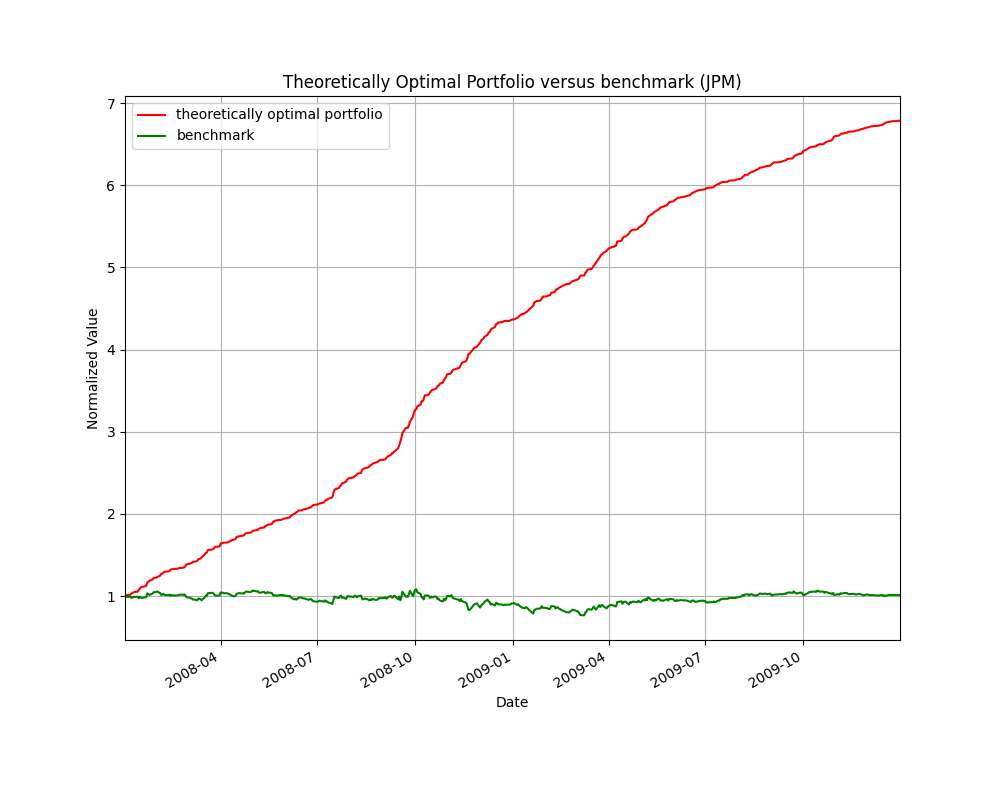
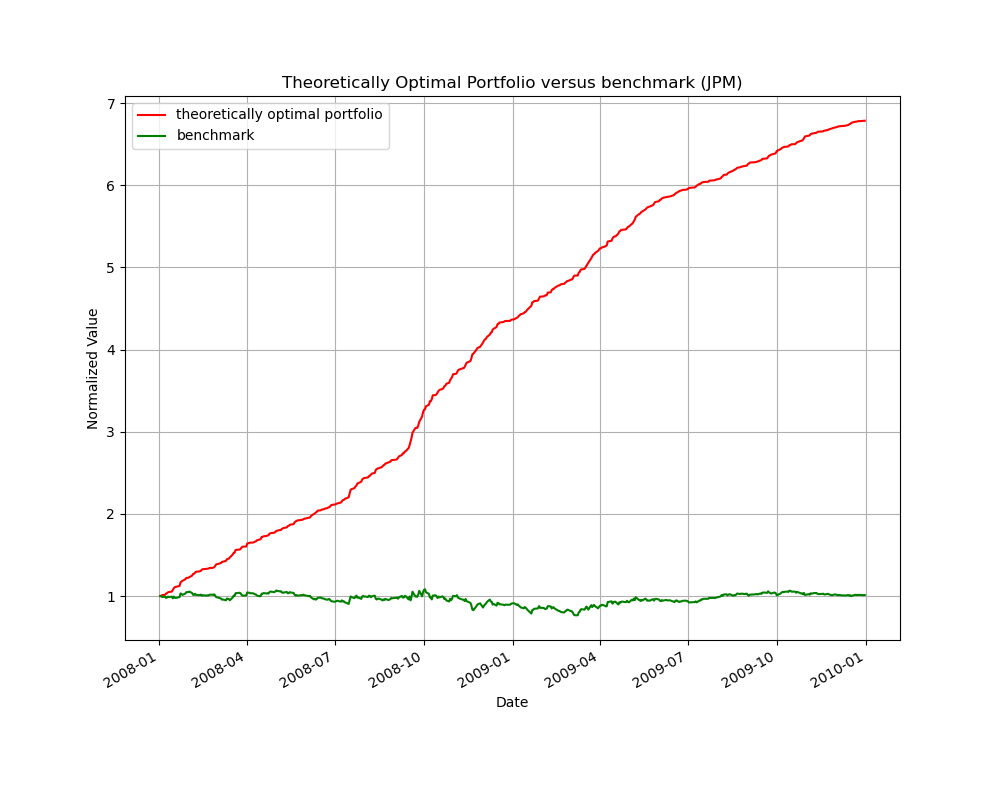
finished proj 6 code

diff --git a/indicator_evaluation/TheoreticallyOptimalStrategy.py b/indicator_evaluation/TheoreticallyOptimalStrategy.py
@@ -4,6 +4,7 @@ import numpy as np
 import pandas as pd
 from util import get_data, plot_data
 import marketsimcode
+import matplotlib.pyplot as plt
 
 def author():
 	return 'tkim338'
@@ -25,13 +26,8 @@ def benchmark(sd, ed, sv=100000):
 	buy_date = stock_data[benchmark_symbol].first_valid_index()
 	sell_date = stock_data[benchmark_symbol].last_valid_index()
 
-	# output = {'Date': [], 'Symbol': [], 'Order': [], 'Shares':[]}
 	output = {'Date': [], 'Trade':[]}
-	# output['Date'] = [buy_date.strftime('%Y-%m-%d'), sell_date.strftime('%Y-%m-%d')]
 	output['Date'] = [buy_date, sell_date]
-	# output['Symbol'] = [benchmark_symbol, benchmark_symbol]
-	# output['Order'] = ['BUY', 'SELL']
-	# output['Shares'] = [1000, 0]
 	output['Trade'] = [1000, -1000]
 
 	df_benchmark = pd.DataFrame(data=output['Trade'], index=output['Date'], columns=[benchmark_symbol])
@@ -41,12 +37,9 @@ def benchmark(sd, ed, sv=100000):
 def compute(symbol, sd, ed, sv): # symbol, start date, end date, start value of portfolio
 	all_dates = date_list(sd, ed)
 	stock_data = get_data([symbol], all_dates, addSPY=False)
-	# stock_data = stock_data.fillna(method='ffill')
-	# stock_data = stock_data.fillna(method='bfill')
 	prev_price = stock_data[symbol][all_dates[0]]
 	prev_date = all_dates[0]
 	current_position = 0
-	# output = {'Date': [], 'Symbol': [], 'Order': [], 'Shares':[]}
 	output = {'Date': [], 'Trade': []}
 
 	for date in all_dates:
@@ -68,9 +61,6 @@ def compute(symbol, sd, ed, sv): # symbol, start date, end date, start value of 
 				else:
 					prev_trade = 0
 					current_position = -1000
-			# elif delta == 0:
-			# 	prev_trade = 0 - current_position
-			# 	current_position = 0
 
 			if prev_trade != 0:
 				output['Date'].append(prev_date)
@@ -109,18 +99,49 @@ def testPolicy(symbol, sd, ed, sv): # symbol, start date, end date, start value 
 	df_trades = compute(symbol, sd, ed, sv)
 	return df_trades
 
+def generateReport(symbol, sd, ed):
+	df_trades = testPolicy(symbol, sd, ed, 100000)
+	tos_values = marketsimcode.compute_portvals(orders_df=df_trades, start_val=100000, commission=0, impact=0)
+	cum, std, mean = compute_statistics(tos_values)
+
+	bm_df = benchmark(sd, ed, 100000)
+	bm_values = marketsimcode.compute_portvals(orders_df=bm_df, start_val=100000, commission=0, impact=0)
+	bm_cum, bm_std, bm_mean = compute_statistics(bm_values)
+
+	df_temp = pd.concat([tos_values / tos_values.iloc[0, :], bm_values / bm_values.iloc[0, :]], axis=1, sort=False)
+	df_temp.columns = ['theoretically optimal portfolio', 'benchmark']
+
+	# -Benchmark (see definition above) normalized to 1.0 at the start: Green line
+	# -Value of the theoretically optimal portfolio (normalized to 1.0 at the start): Red line
+	val_plot = df_temp.plot(style=['-r', '-g'], title='Theoretically Optimal Portfolio versus benchmark (' + symbol + ')', figsize=(10, 8))
+	val_plot.set_xlabel('Date')
+	val_plot.set_ylabel('Normalized Value')
+	val_plot.grid(b=True, which='both', axis='both')
+	plt.savefig('TOS.png')
+
+	print('Symbol: ', symbol)
+	print('Start date: ', sd)
+	print('End date: ', ed)
+	# -Cumulative return of the benchmark and portfolio
+	print('Cumulative return of the benchmark: ', bm_cum, ' and portfolio: ', cum)
+	# -Stdev of daily returns of benchmark and portfolio
+	print('Stdev of daily returns of benchmark: ', bm_std, ' and portfolio: ', std)
+	# -Mean of daily returns of benchmark and portfolio
+	print('Mean of daily returns of benchmark: ', bm_mean, ' and portfolio: ', mean)
+
 if __name__ == "__main__":
-	df_test = testPolicy(symbol="JPM", sd=dt.datetime(2009, 3, 1), ed=dt.datetime(2009, 3, 15), sv=100000)
-	test_values = marketsimcode.compute_portvals(orders_df=df_test, start_val=100000, commission=0, impact=0)
-	stock_data = get_data(['JPM'], date_list(dt.datetime(2009, 3, 1), dt.datetime(2009, 3, 15)), addSPY=False)
-
-	df_test.columns = ['trades']
-	stock_data.columns = ['price']
-	df_temp = pd.concat([df_test, stock_data], axis=1, sort=False)
-
-	cum, std, mean = compute_statistics(test_values)
-	print(cum)
-	print(std)
-	print(mean)
-
-	print('done')
+	# df_test = testPolicy(symbol="JPM", sd=dt.datetime(2008, 1, 1), ed=dt.datetime(2009, 12, 31), sv=100000)
+	# test_values = marketsimcode.compute_portvals(orders_df=df_test, start_val=100000, commission=0, impact=0)
+	# # stock_data = get_data(['JPM'], date_list(dt.datetime(2008, 1, 1), dt.datetime(2009, 12, 31)), addSPY=False)
+	#
+	# # df_test.columns = ['trades']
+	# # stock_data.columns = ['price']
+	# # df_temp = pd.concat([df_test, stock_data], axis=1, sort=False)
+	#
+	# cum, std, mean = compute_statistics(test_values)
+	# print(cum)
+	# print(std)
+	# print(mean)
+	#
+	# print('done')
+	generateReport(symbol="JPM", sd=dt.datetime(2008, 1, 1), ed=dt.datetime(2009, 12, 31))

diff --git a/indicator_evaluation/indicators.py b/indicator_evaluation/indicators.py
@@ -66,6 +66,12 @@ def obv(df_prices, df_volume):
 		prev_price = curr_price
 		prev_obv = obv_list['obv'][-1]
 	df_obv = pd.DataFrame(data=obv_list['obv'], index=obv_list['date'], columns=['OBV'])
+	# first_val = 1
+	# for val in df_obv.iterrows():
+	# 	if val[1][0] != 0:
+	# 		first_val = val[1][0]
+	# 		break
+	# df_obv = df_obv / first_val
 	return df_obv
 
 def indicator_test(symbol, sd, ed):
@@ -90,11 +96,18 @@ def indicator_test(symbol, sd, ed):
 	sma_window = 20
 	ma = sma(stock_price, window_size=sma_window)
 	ma.columns += ' ('+str(sma_window)+'-day)'
-	ax_ma = stock_price.plot(title='Simple Moving Average ('+symbol+')', figsize=(10,8))
-	ma.plot(ax=ax_ma)
-	ax_ma.set_xlabel('Date')
-	ax_ma.set_ylabel('Price ($)')
-	ax_ma.grid(b=True, which='both', axis='both')
+	fig_ma, (ax1_ma, ax2_ma) = plt.subplots(2, 1, figsize=(10, 8))
+	# ax_ma = stock_price.plot(title='Simple Moving Average ('+symbol+')', figsize=(10,8))
+	stock_price.plot(title='Simple Moving Average (' + symbol + ')', ax=ax1_ma)
+	ma.plot(ax=ax1_ma)
+	ax1_ma.set_ylabel('Price ($)')
+	ax1_ma.grid(b=True, which='both', axis='both')
+
+	df_temp_ma = pd.DataFrame(data=stock_price['adj. close price'] / ma['SMA ('+str(sma_window)+'-day)'], columns=['Price/SMA ratio'])
+	df_temp_ma.plot(ax=ax2_ma, color='r')
+	ax2_ma.set_xlabel('Date')
+	ax2_ma.set_ylabel('Price/SMA')
+	ax2_ma.grid(b=True, which='both', axis='both')
 	plt.savefig('sma.png')
 
 	# 2) Bollinger bands
@@ -103,13 +116,30 @@ def indicator_test(symbol, sd, ed):
 	bl, bu = bollinger_bands(stock_price, window_size=bb_window, std_dev=sdev)
 	bl.columns += ' (-'+str(sdev)+' std. dev.)'
 	bu.columns += ' (+'+str(sdev)+' std. dev.)'
-	ax_bb = stock_price.plot(title='Bollinger Band ('+symbol+')', figsize=(10,8))
-	ma.plot(ax=ax_bb)
-	bu.plot(ax=ax_bb)
-	bl.plot(ax=ax_bb)
-	ax_bb.set_xlabel('Date')
-	ax_bb.set_ylabel('Price ($)')
-	ax_bb.grid(b=True, which='both', axis='both')
+	fig_bb, (ax1_bb, ax2_bb) = plt.subplots(2, 1, figsize=(10, 8))
+	# ax_bb = stock_price.plot(title='Bollinger Band ('+symbol+')', figsize=(10,8))
+	stock_price.plot(title='Bollinger Band (' + symbol + ')', ax=ax1_bb)
+	ma.plot(ax=ax1_bb)
+	bu.plot(ax=ax1_bb, color='g')
+	bl.plot(ax=ax1_bb, color='r')
+	ax1_bb.set_ylabel('Price ($)')
+	ax1_bb.grid(b=True, which='both', axis='both')
+
+	df_bb_percent = pd.DataFrame(data=100 * (stock_price['adj. close price'] - bl['Bollinger Band lower band (-'+str(sdev)+' std. dev.)']) / (bu['Bollinger Band upper band (+'+str(sdev)+' std. dev.)'] - bl['Bollinger Band lower band (-'+str(sdev)+' std. dev.)']))
+	df_bb_percent.columns = ['BB%']
+	df_bb_percent.plot(ax=ax2_bb)
+
+	ser = 100 * bu['Bollinger Band upper band (+'+str(sdev)+' std. dev.)']/bu['Bollinger Band upper band (+'+str(sdev)+' std. dev.)']
+	df_bbp_upper = pd.DataFrame(data=100 * bu['Bollinger Band upper band (+'+str(sdev)+' std. dev.)']/bu['Bollinger Band upper band (+'+str(sdev)+' std. dev.)'])
+	df_bbp_lower = pd.DataFrame(data=bl['Bollinger Band lower band (-'+str(sdev)+' std. dev.)']-bl['Bollinger Band lower band (-'+str(sdev)+' std. dev.)'])
+	df_bbp_upper.columns = ['BB upper band']
+	df_bbp_lower.columns = ['BB lower band']
+	df_bbp_upper.plot(ax=ax2_bb, color='g')
+	df_bbp_lower.plot(ax=ax2_bb, color='r')
+	ax2_bb.set_xlabel('Date')
+	ax2_bb.set_ylabel('Bollinger Band Percent (%)')
+	ax2_bb.grid(b=True, which='both', axis='both')
+
 	plt.savefig('bollinger_band.png')
 
 	# 3) momentum ( price[t]/price[t-N] - 1 )

diff --git a/indicator_evaluation/testproject.py b/indicator_evaluation/testproject.py
@@ -7,6 +7,9 @@ import indicators
 import TheoreticallyOptimalStrategy as tos
 import marketsimcode
 
+def author():
+	return 'tkim338'
+
 if __name__ == "__main__":
 	start_date = dt.datetime(2008, 1, 1)
 	end_date = dt.datetime(2009, 12, 31)
